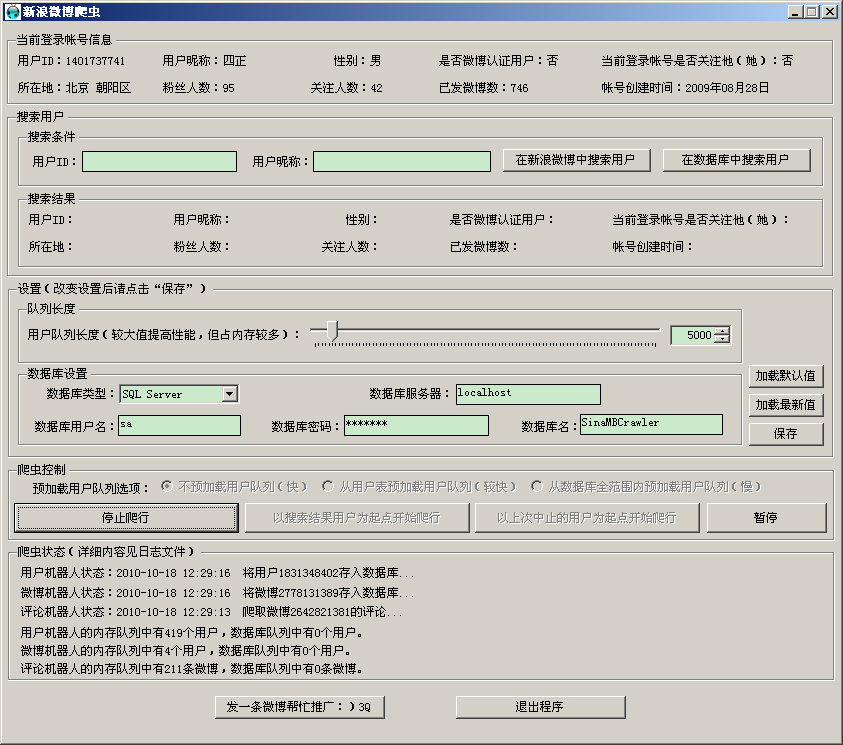
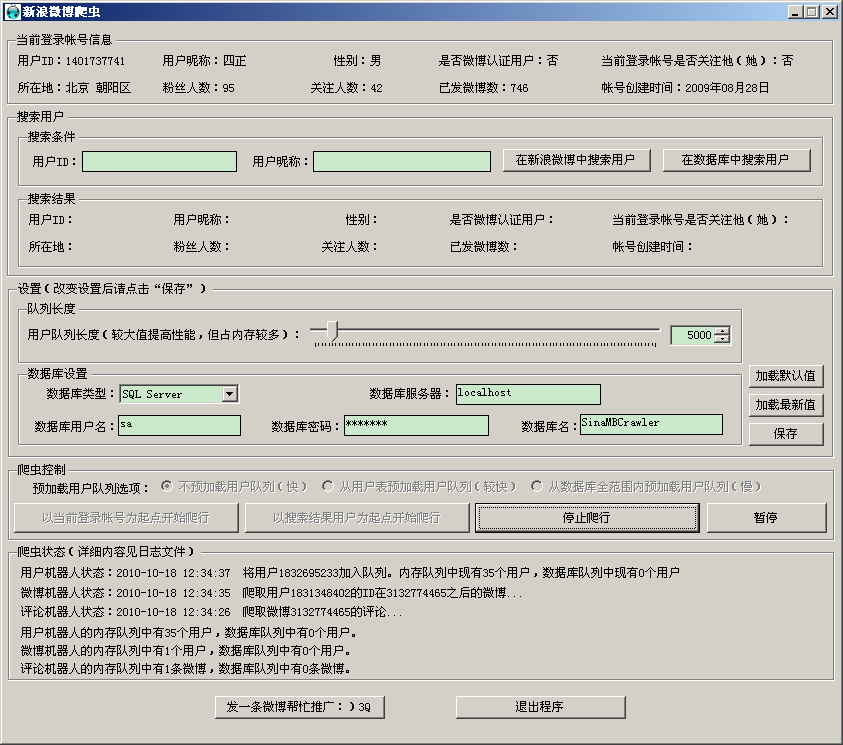
1、修正界面BUG 2、新截图

diff --git a/Sinawler/Sinawler/frmMain.Designer.cs b/Sinawler/Sinawler/frmMain.Designer.cs
@@ -90,15 +90,15 @@
             this.btnSave = new System.Windows.Forms.Button();
             this.lblUserTitle = new System.Windows.Forms.Label();
             this.grpStatus = new System.Windows.Forms.GroupBox();
+            this.lblCommentQueueInfo = new System.Windows.Forms.Label();
+            this.lblStatusQueueInfo = new System.Windows.Forms.Label();
+            this.lblUserQueueInfo = new System.Windows.Forms.Label();
             this.lblCommentMessage = new System.Windows.Forms.Label();
             this.lblCommentTitle = new System.Windows.Forms.Label();
             this.lblStatusMessage = new System.Windows.Forms.Label();
             this.lblUserMessage = new System.Windows.Forms.Label();
             this.lblStatusTitle = new System.Windows.Forms.Label();
             this.btnPost = new System.Windows.Forms.Button();
-            this.lblUserQueueInfo = new System.Windows.Forms.Label();
-            this.lblStatusQueueInfo = new System.Windows.Forms.Label();
-            this.lblCommentQueueInfo = new System.Windows.Forms.Label();
             this.grpUserInfo.SuspendLayout();
             this.grpSearchCondition.SuspendLayout();
             this.grpCurrentUser.SuspendLayout();
@@ -769,6 +769,33 @@
             this.grpStatus.TabStop = false;
             this.grpStatus.Text = "爬虫状态（详细内容见日志文件）";
             // 
+            // lblCommentQueueInfo
+            // 
+            this.lblCommentQueueInfo.AutoSize = true;
+            this.lblCommentQueueInfo.Location = new System.Drawing.Point( 11, 117 );
+            this.lblCommentQueueInfo.Name = "lblCommentQueueInfo";
+            this.lblCommentQueueInfo.Size = new System.Drawing.Size( 341, 12 );
+            this.lblCommentQueueInfo.TabIndex = 24;
+            this.lblCommentQueueInfo.Text = "评论机器人的内存队列中有0条微博，数据库队列中有0条微博。";
+            // 
+            // lblStatusQueueInfo
+            // 
+            this.lblStatusQueueInfo.AutoSize = true;
+            this.lblStatusQueueInfo.Location = new System.Drawing.Point( 11, 99 );
+            this.lblStatusQueueInfo.Name = "lblStatusQueueInfo";
+            this.lblStatusQueueInfo.Size = new System.Drawing.Size( 341, 12 );
+            this.lblStatusQueueInfo.TabIndex = 23;
+            this.lblStatusQueueInfo.Text = "微博机器人的内存队列中有0个用户，数据库队列中有0个用户。";
+            // 
+            // lblUserQueueInfo
+            // 
+            this.lblUserQueueInfo.AutoSize = true;
+            this.lblUserQueueInfo.Location = new System.Drawing.Point( 11, 81 );
+            this.lblUserQueueInfo.Name = "lblUserQueueInfo";
+            this.lblUserQueueInfo.Size = new System.Drawing.Size( 341, 12 );
+            this.lblUserQueueInfo.TabIndex = 22;
+            this.lblUserQueueInfo.Text = "用户机器人的内存队列中有0个用户，数据库队列中有0个用户。";
+            // 
             // lblCommentMessage
             // 
             this.lblCommentMessage.AutoSize = true;
@@ -828,33 +855,6 @@
             this.btnPost.Text = "发一条微博帮忙推广：）3Q";
             this.btnPost.UseVisualStyleBackColor = true;
             this.btnPost.Click += new System.EventHandler( this.btnPost_Click );
-            // 
-            // lblUserQueueInfo
-            // 
-            this.lblUserQueueInfo.AutoSize = true;
-            this.lblUserQueueInfo.Location = new System.Drawing.Point( 11, 81 );
-            this.lblUserQueueInfo.Name = "lblUserQueueInfo";
-            this.lblUserQueueInfo.Size = new System.Drawing.Size( 341, 12 );
-            this.lblUserQueueInfo.TabIndex = 22;
-            this.lblUserQueueInfo.Text = "用户机器人的内存队列中有0个用户，数据库队列中有0个用户。";
-            // 
-            // lblStatusQueueInfo
-            // 
-            this.lblStatusQueueInfo.AutoSize = true;
-            this.lblStatusQueueInfo.Location = new System.Drawing.Point( 11, 99 );
-            this.lblStatusQueueInfo.Name = "lblStatusQueueInfo";
-            this.lblStatusQueueInfo.Size = new System.Drawing.Size( 341, 12 );
-            this.lblStatusQueueInfo.TabIndex = 23;
-            this.lblStatusQueueInfo.Text = "微博机器人的内存队列中有0个用户，数据库队列中有0个用户。";
-            // 
-            // lblCommentQueueInfo
-            // 
-            this.lblCommentQueueInfo.AutoSize = true;
-            this.lblCommentQueueInfo.Location = new System.Drawing.Point( 11, 117 );
-            this.lblCommentQueueInfo.Name = "lblCommentQueueInfo";
-            this.lblCommentQueueInfo.Size = new System.Drawing.Size( 341, 12 );
-            this.lblCommentQueueInfo.TabIndex = 24;
-            this.lblCommentQueueInfo.Text = "评论机器人的内存队列中有0个用户，数据库队列中有0个用户。";
             // 
             // frmMain
             // 

diff --git a/Sinawler/Sinawler/frmMain.cs b/Sinawler/Sinawler/frmMain.cs
@@ -613,6 +613,7 @@ namespace Sinawler
             }
             robotUser.Initialize();
             lblUserMessage.Text = "停止。";
+            lblUserQueueInfo.Text = "用户机器人的内存队列中有0个用户，数据库队列中有0个用户。";
 
             if (oAsyncWorkerStatus == null && oAsyncWorkerComment == null)  //如果另外两个机器人也已停止
             {
@@ -669,6 +670,7 @@ namespace Sinawler
             }
             robotStatus.Initialize();
             lblStatusMessage.Text = "停止。";
+            lblStatusQueueInfo.Text = "微博机器人的内存队列中有0个用户，数据库队列中有0个用户。";
 
             if (oAsyncWorkerUser == null && oAsyncWorkerComment == null)  //如果另外两个机器人也已停止
             {
@@ -722,6 +724,7 @@ namespace Sinawler
             }
             robotComment.Initialize();
             lblCommentMessage.Text = "停止。";
+            lblCommentQueueInfo.Text = "评论机器人的内存队列中有0条微博，数据库队列中有0条微博。";
 
             if (oAsyncWorkerUser == null && oAsyncWorkerStatus == null)  //如果另外两个机器人也已停止
             {

diff --git a/Sinawler/Sinawler/Properties/AssemblyInfo.cs b/Sinawler/Sinawler/Properties/AssemblyInfo.cs
@@ -30,6 +30,6 @@ using System.Resources;
 //      内部版本号
 //      修订号
 //
-[assembly: AssemblyVersion( "3.4.0.0" )]
-[assembly: AssemblyFileVersion( "3.4.0.0" )]
+[assembly: AssemblyVersion( "3.4.0.1" )]
+[assembly: AssemblyFileVersion( "3.4.0.1" )]
 [assembly: NeutralResourcesLanguageAttribute("zh-CHS")]
